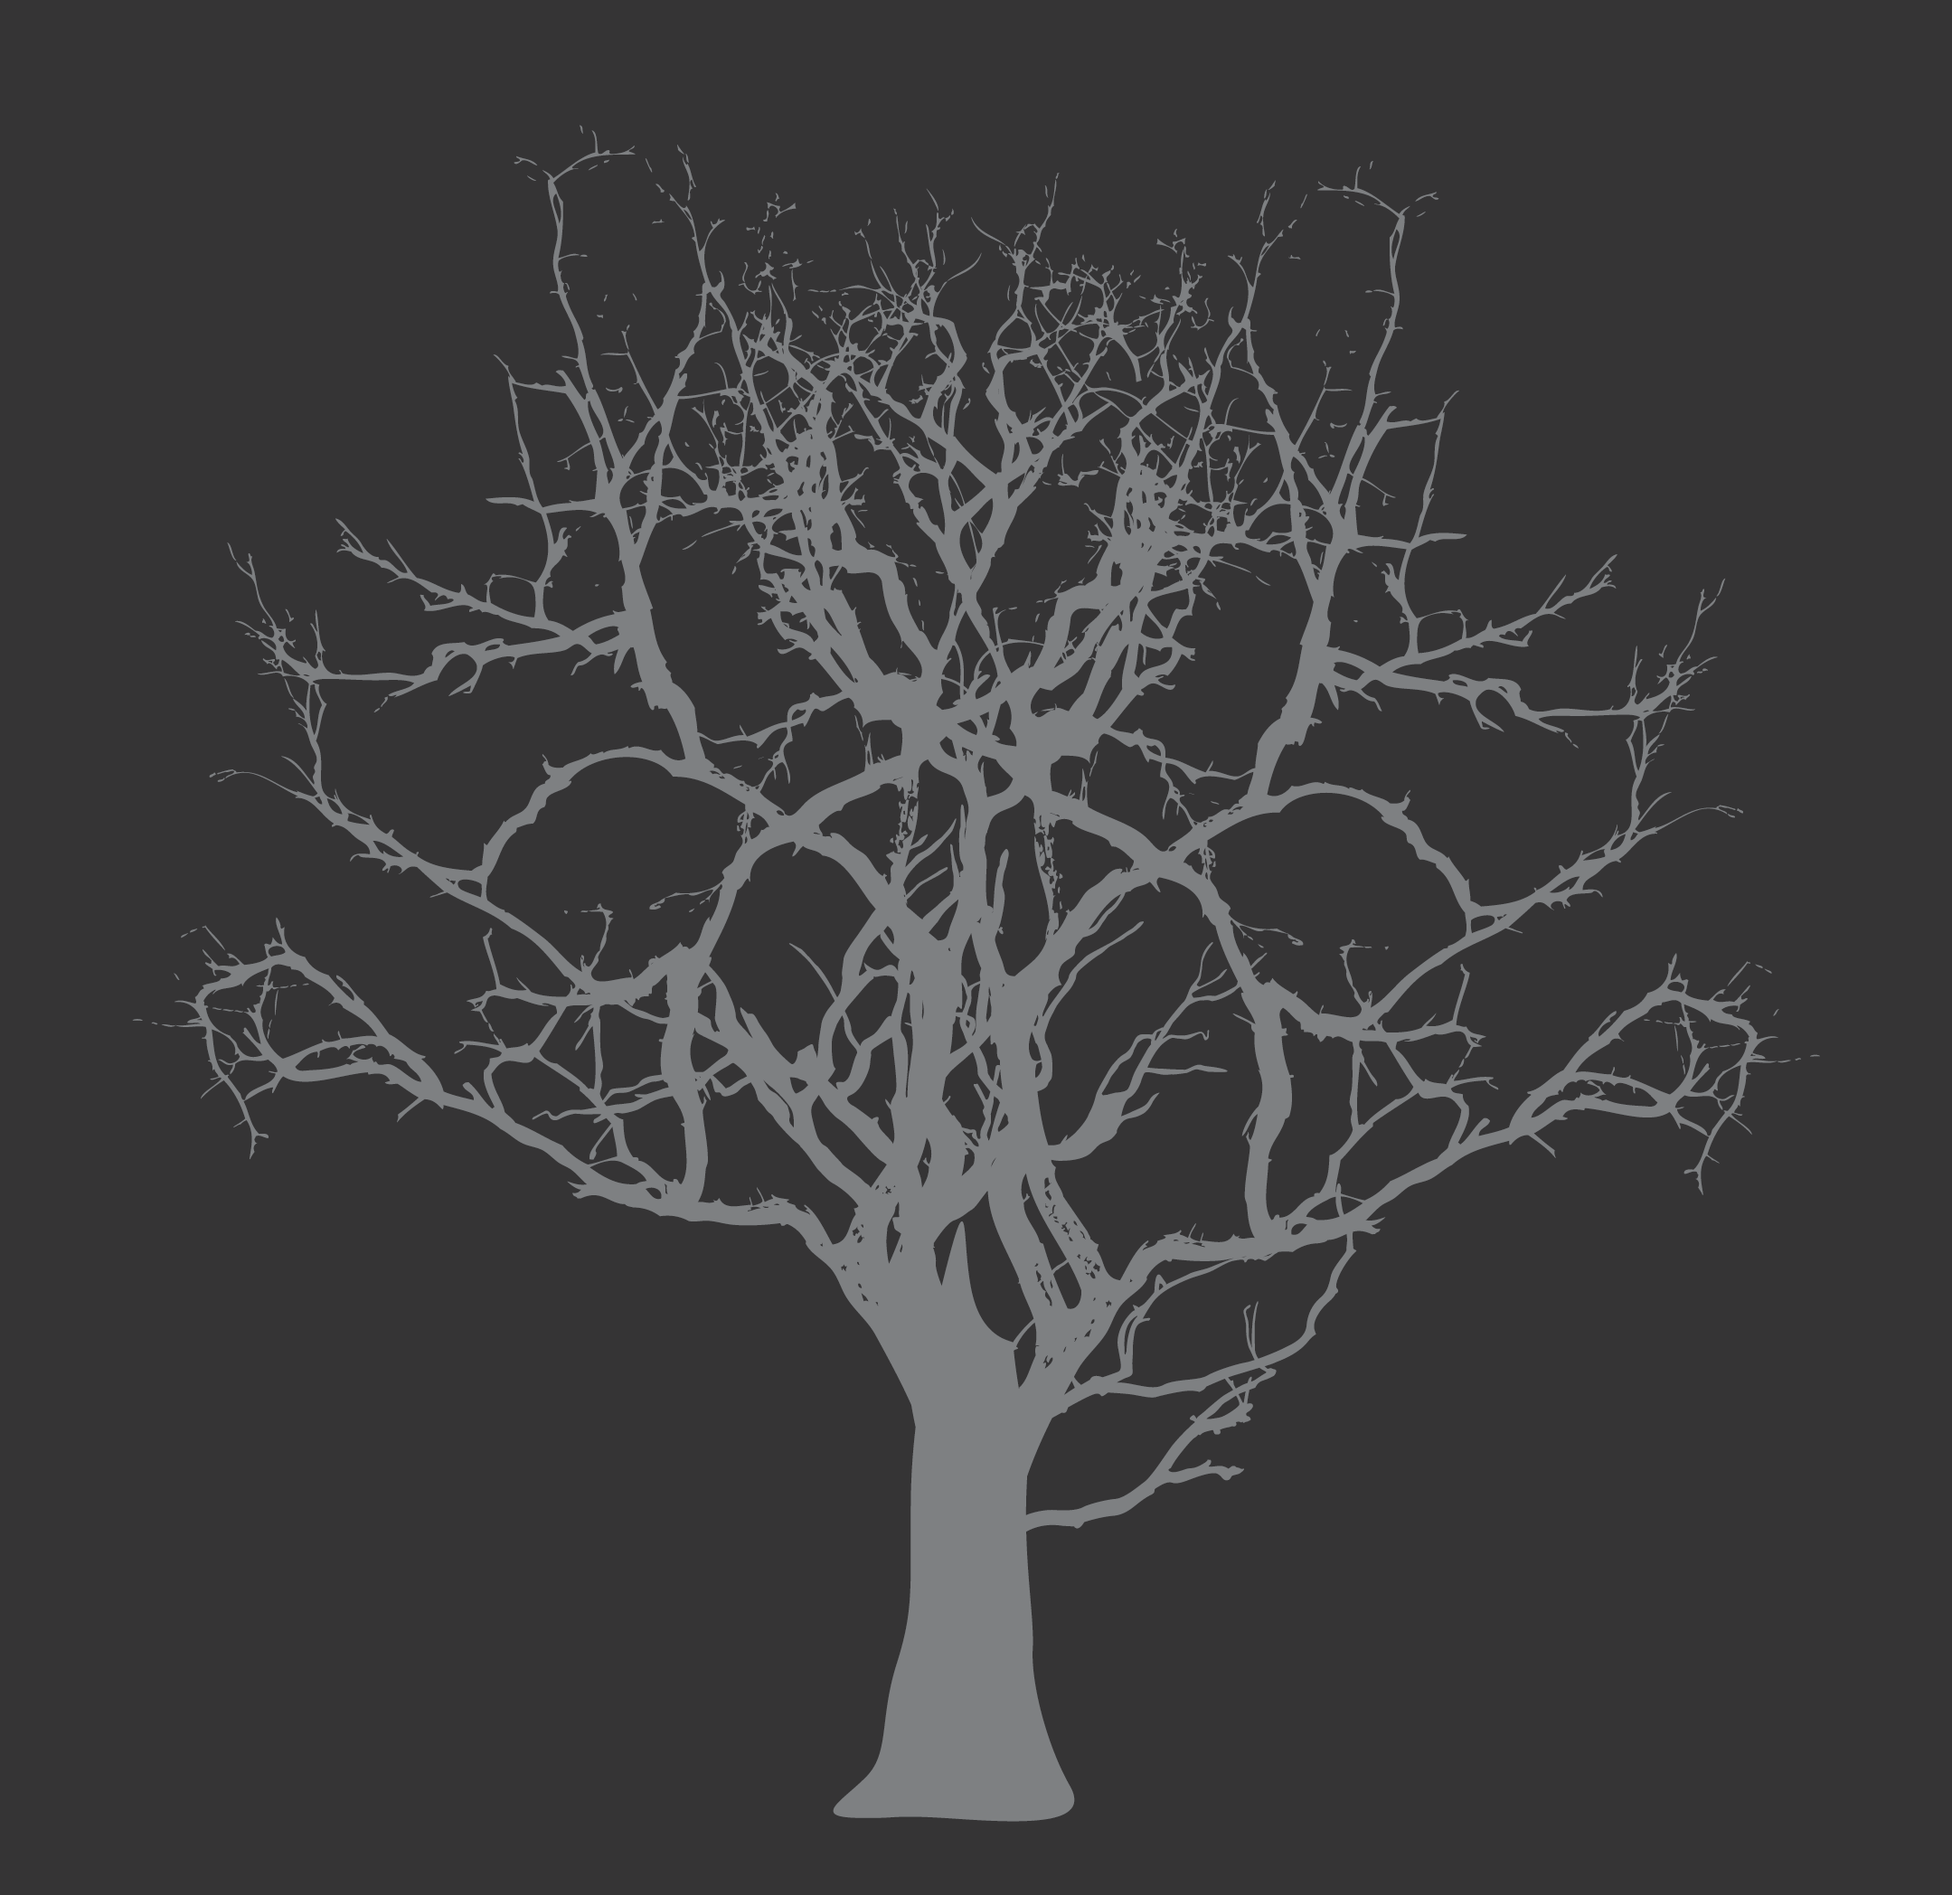
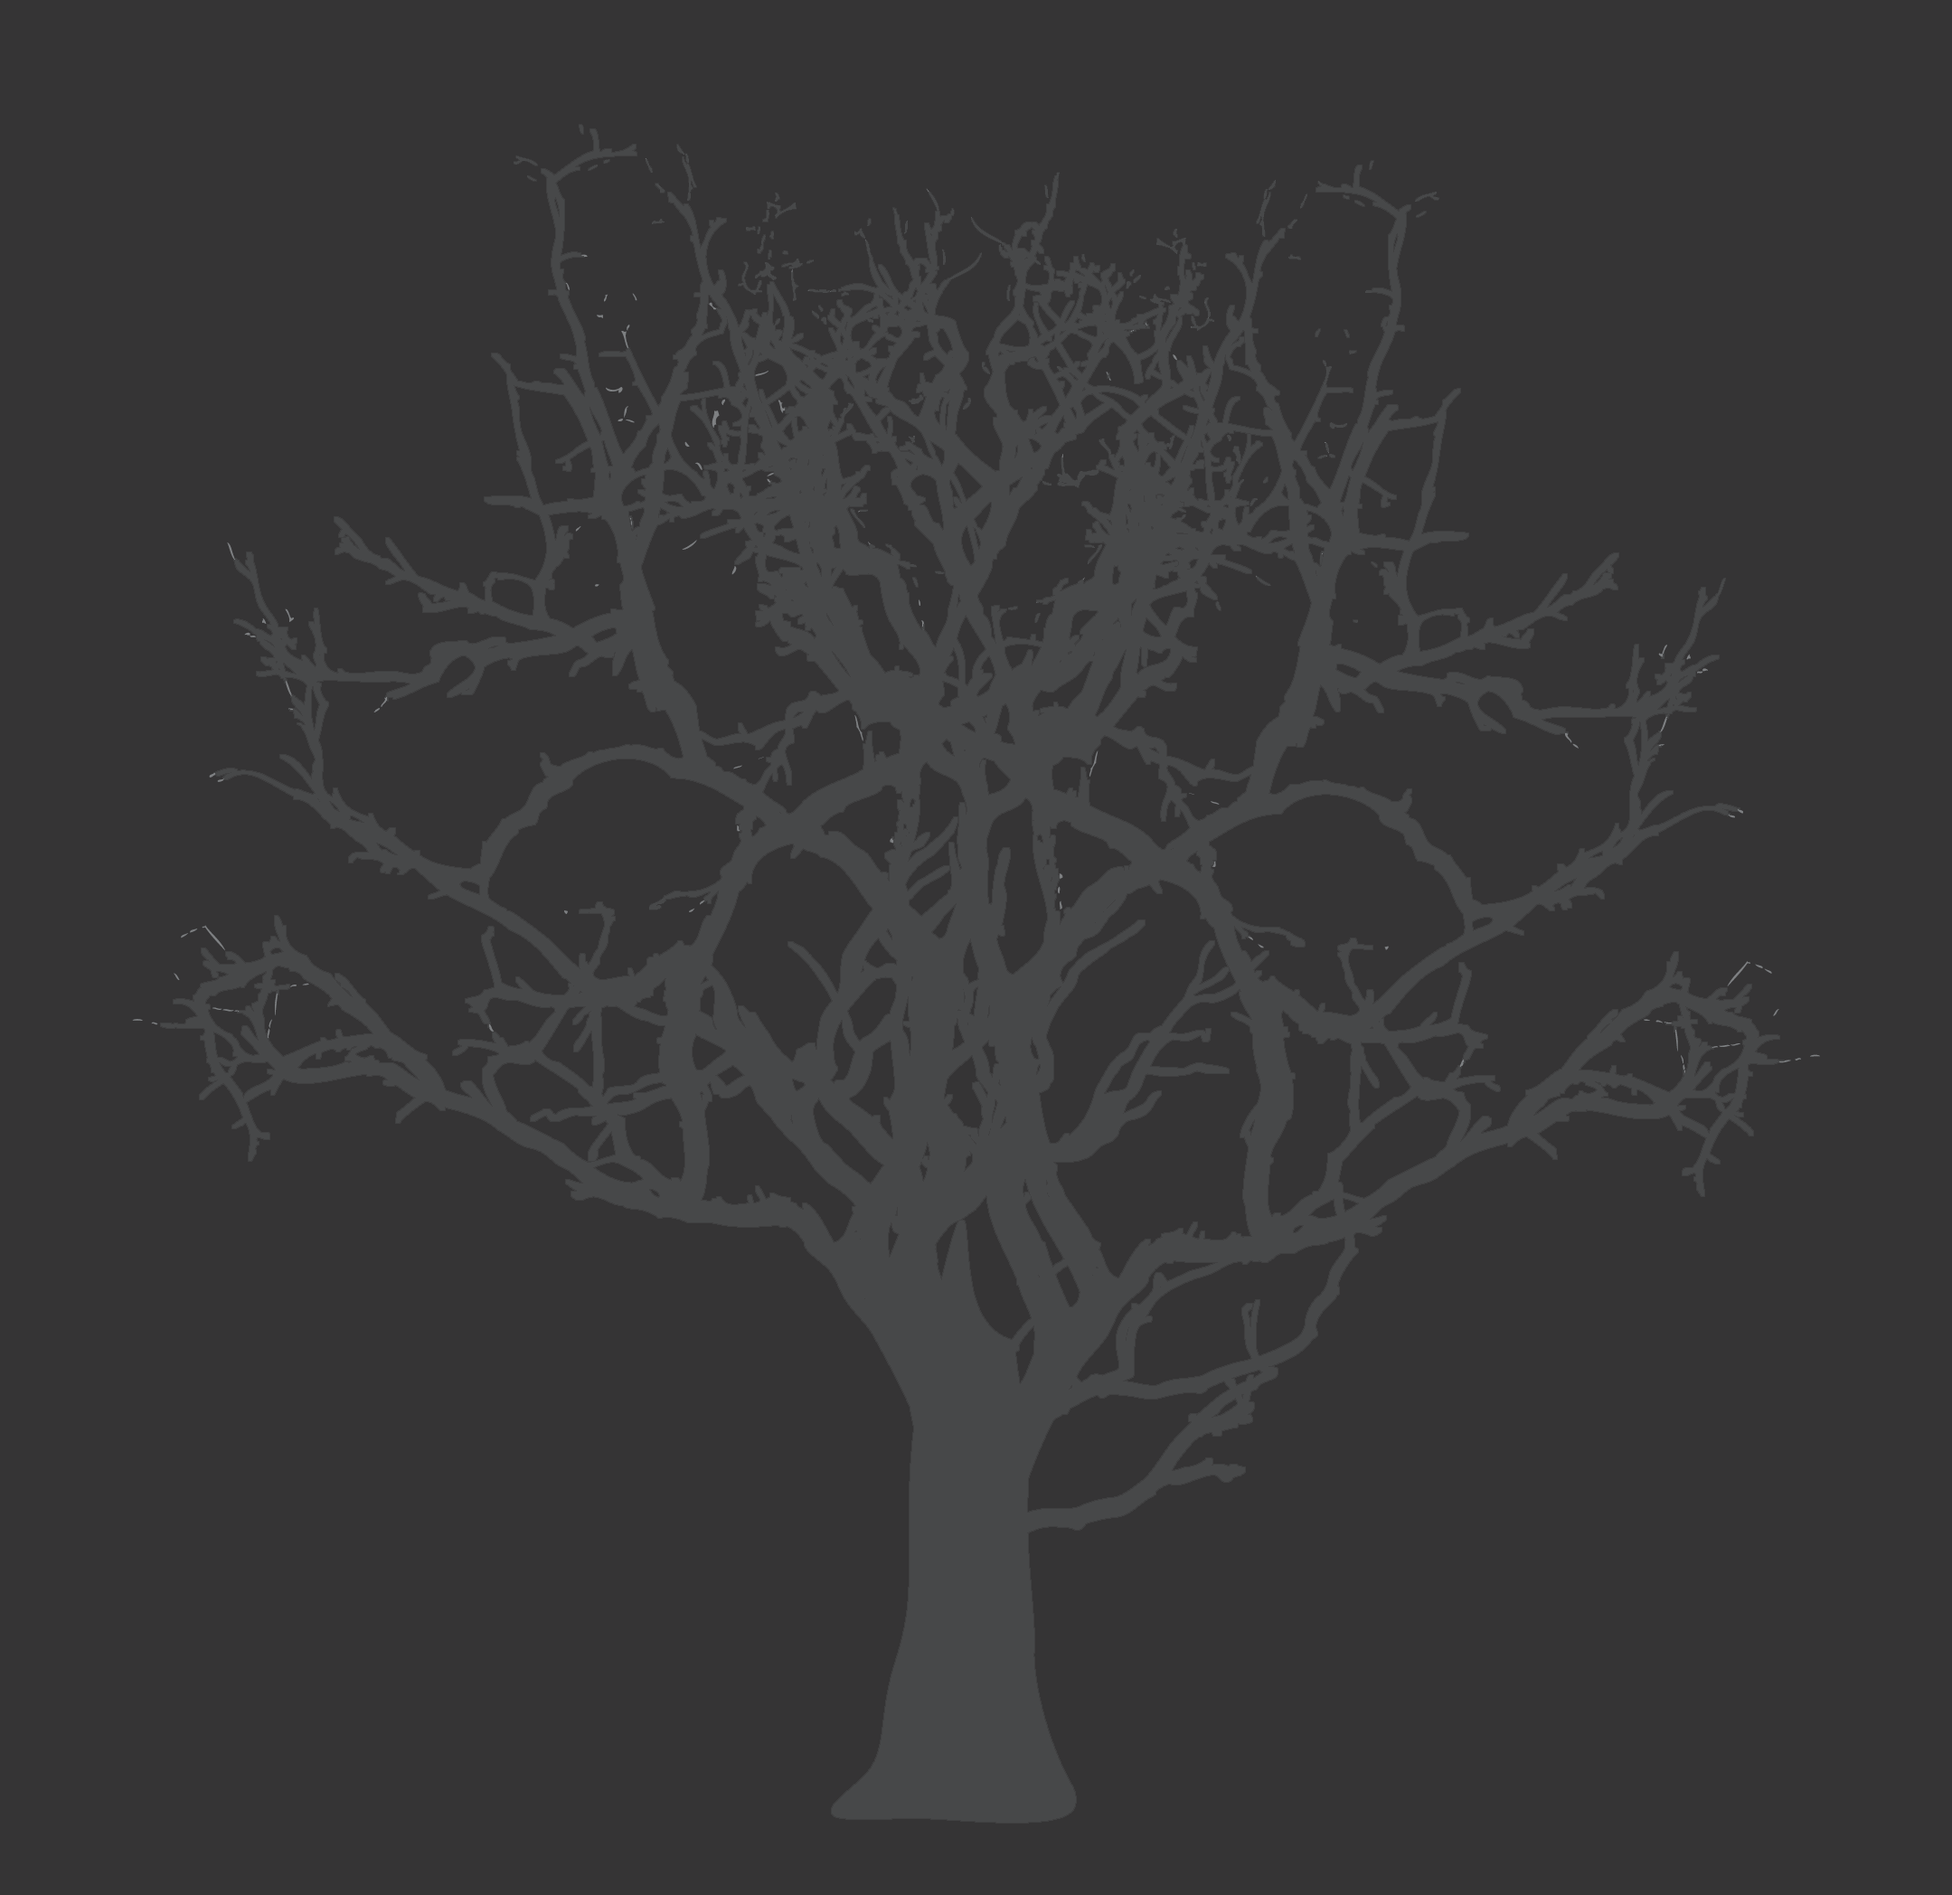
added darkened tree background image

diff --git a/index.html b/index.html
@@ -138,7 +138,7 @@
 
 <p><span class="alert">This event is 21+.</span></p>
 
-<div><a href="https://services.chicagohistory.org/loader.asp?target=hall.asp?event=20814"><button class="large button round allcaps bgorange borderpink">Buy Tickets</button></a></div>
+<div><a href="https://services.chicagohistory.org/loader.asp?target=hall.asp?event=20814"><button class="large button round allcaps bgorange borderorange">Buy Tickets</button></a></div>
 		</div>
 	</div>
 

diff --git a/css/custom.css b/css/custom.css
@@ -16,7 +16,7 @@
 }
 
 .bgtree {
-	background-image: url(../img/bgtree.png);
+	background-image: url(../img/bgtree2.png);
 	background-repeat:no-repeat;
 }
 
@@ -48,8 +48,8 @@
 	font-size: 1.5em;
 }
 
-/*.panel {
-	background-color: #58585A;
+ /*.panel {
+	background-color: #F5851F;
 	border-color: #58585A;
 }*/
 
@@ -67,6 +67,6 @@
 	background-color: #F5851F;
 }
 
-.borderpink {
+.borderorange {
 	border-color: #f79d4b;
 }
